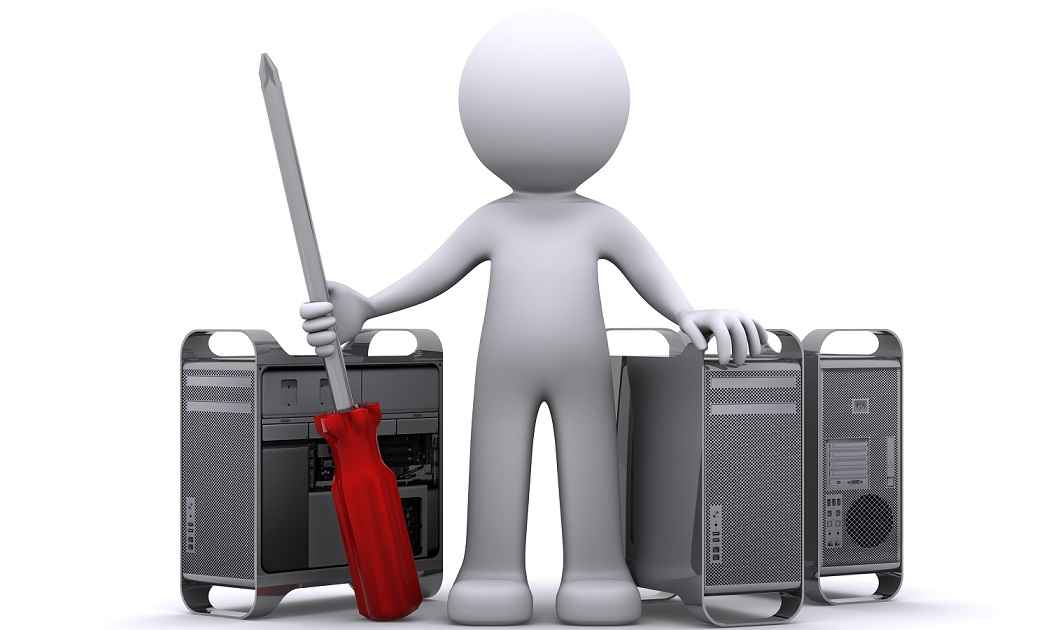
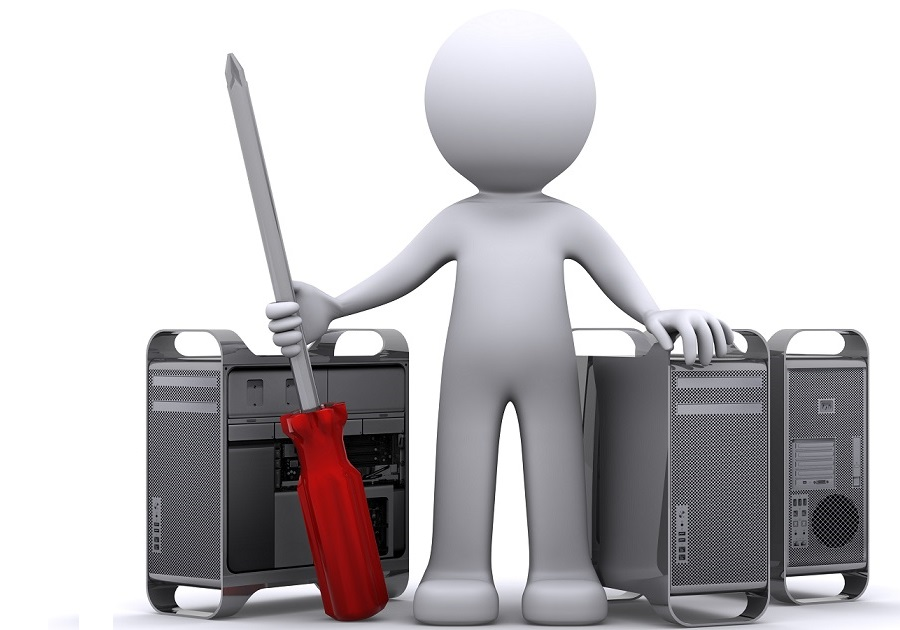
fixed i guess

diff --git a/index.html b/index.html
@@ -64,7 +64,7 @@
                             </div>
                         </div>
                         <div class="item">
-                            <img class="img-responsive center-block" img src="assets/img/<virus class="j"></virus>pg" alt="" />
+                            <img class="img-responsive center-block" img src="assets/img/virus.jpg" alt="" />
                             <div class="carousel-caption ">
                                 <h4 class="back-light">Infectés? Nous pouvons vous aider!</h4>
                             </div>

diff --git a/assets/css/bootstrap.css b/assets/css/bootstrap.css
@@ -5437,8 +5437,8 @@ button.close {
 .carousel-inner > .item > img,
 .carousel-inner > .item > a > img {
   display: block;
-  max-width: 100%;
-  height: 100%;
+  max-width: relative;
+  height: fixed;
   line-height: 1;
 }
 .carousel-inner > .active,
